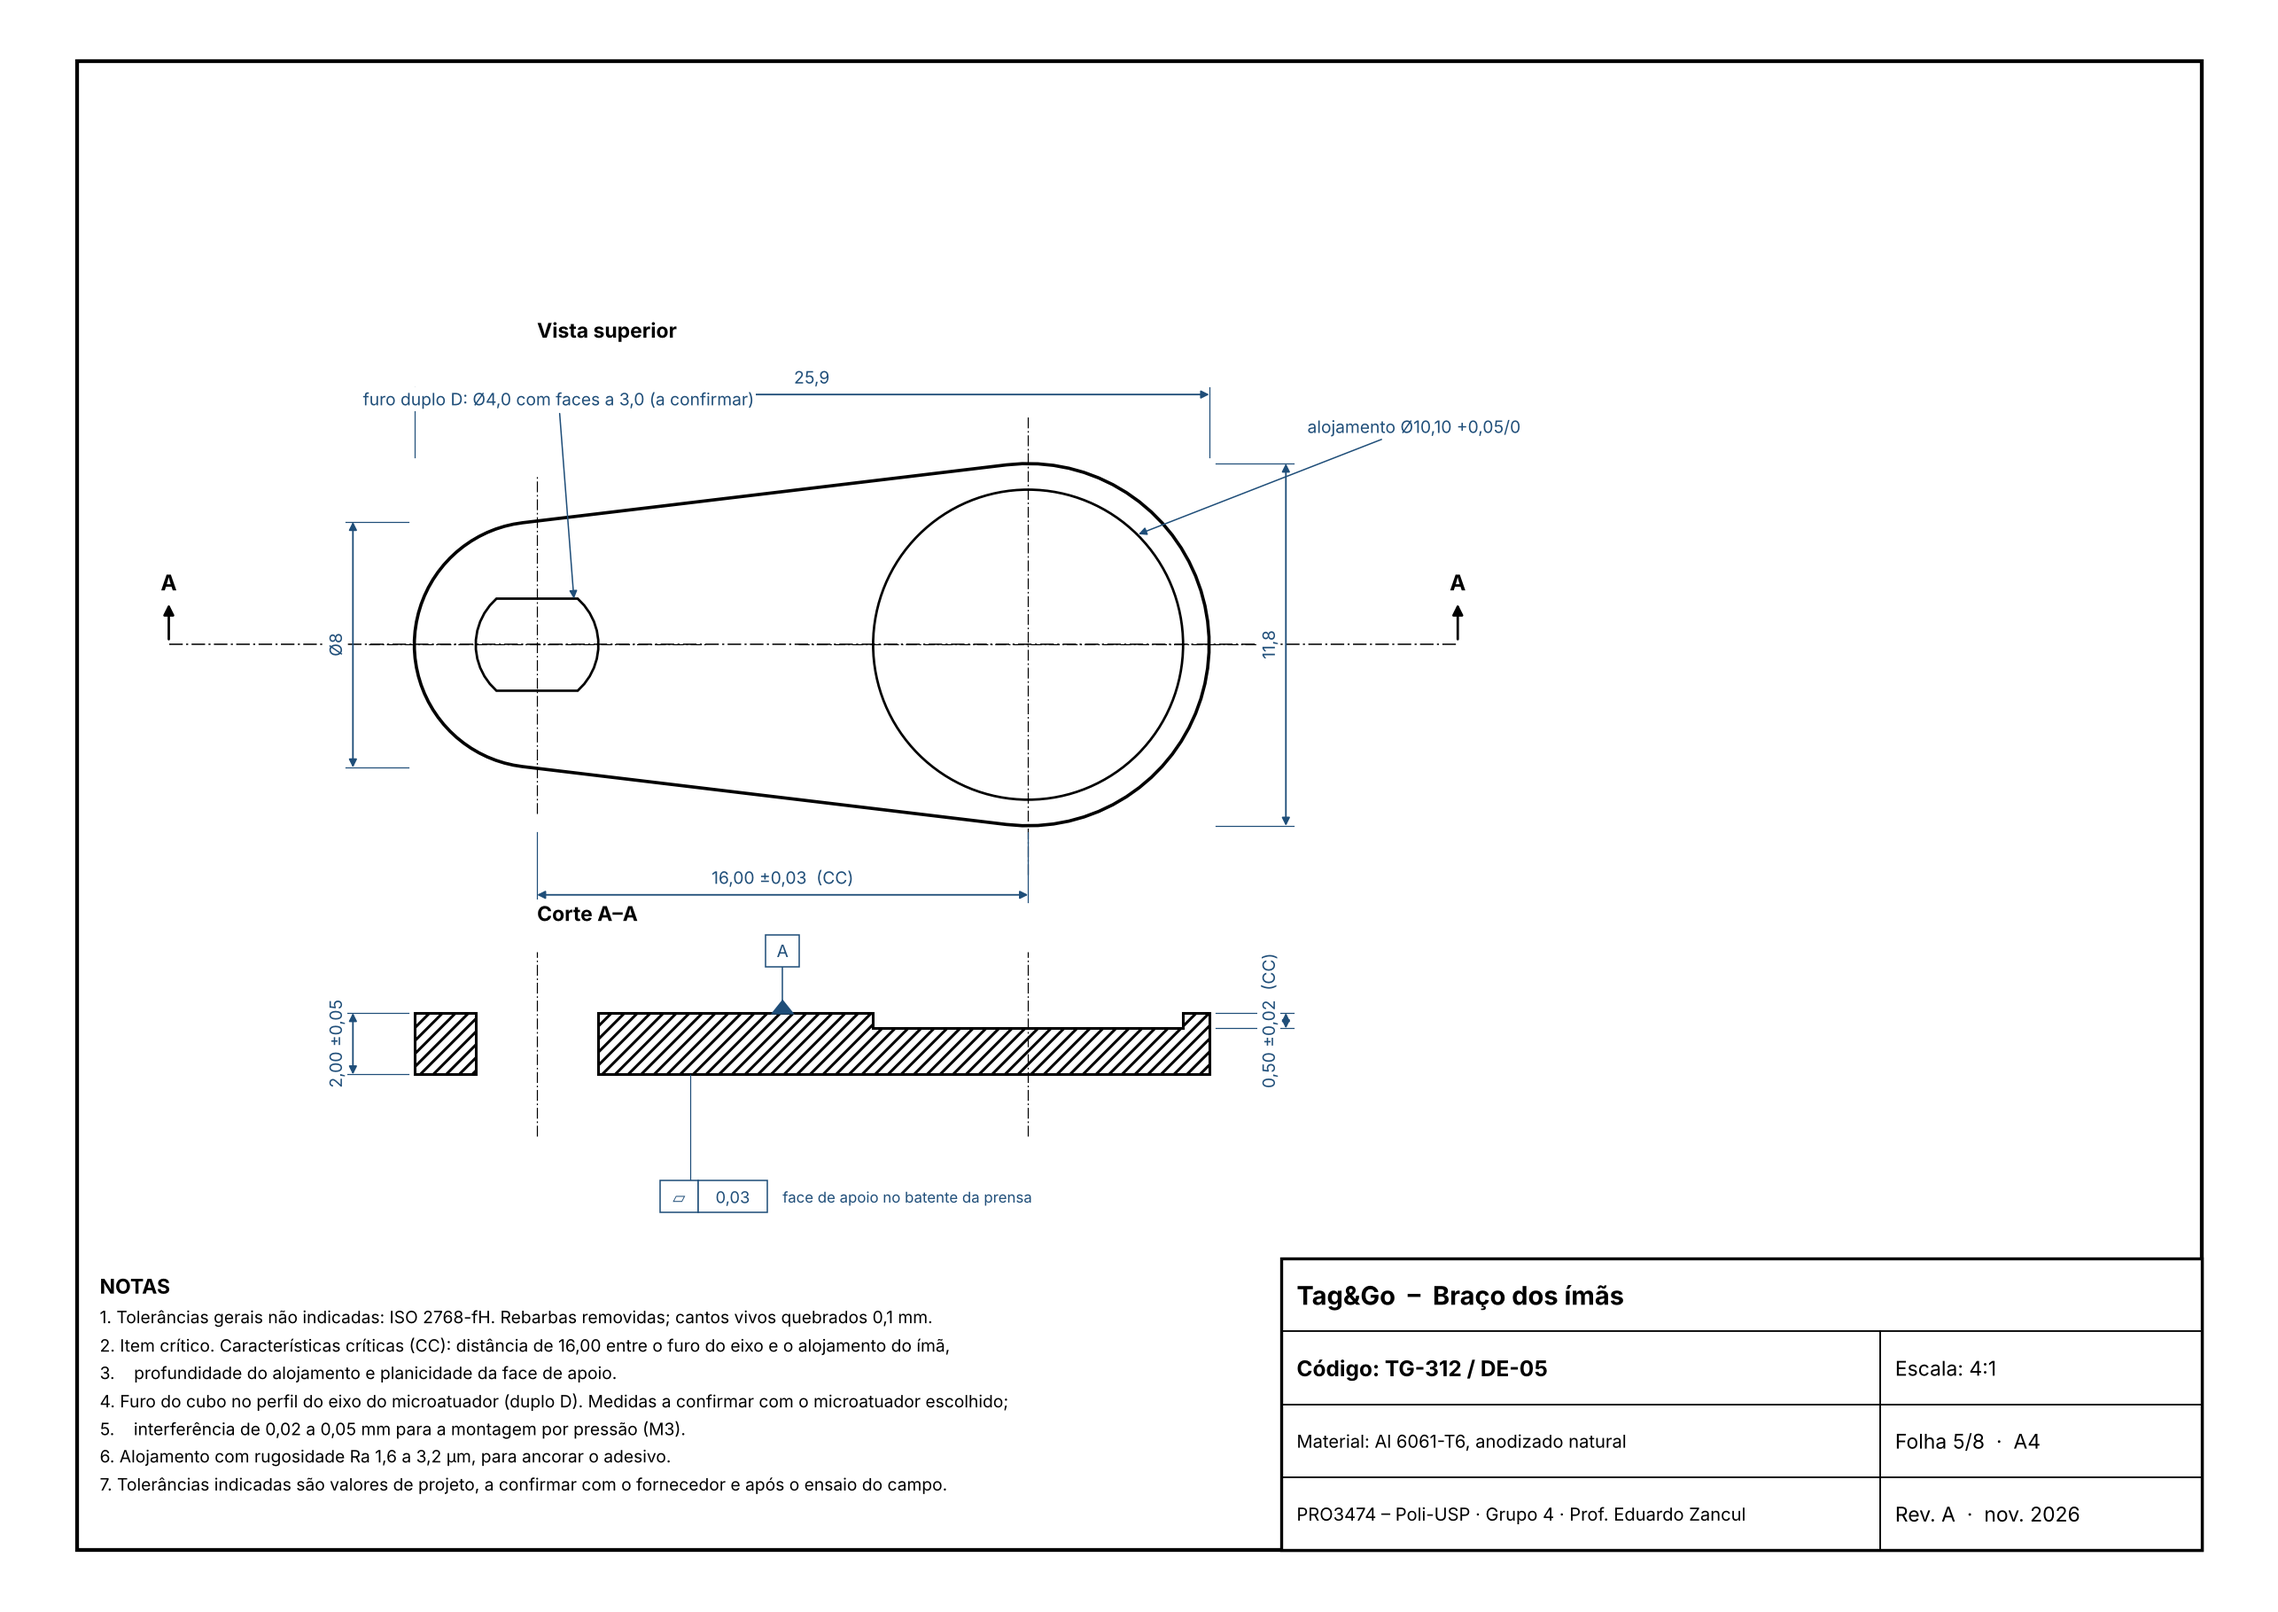
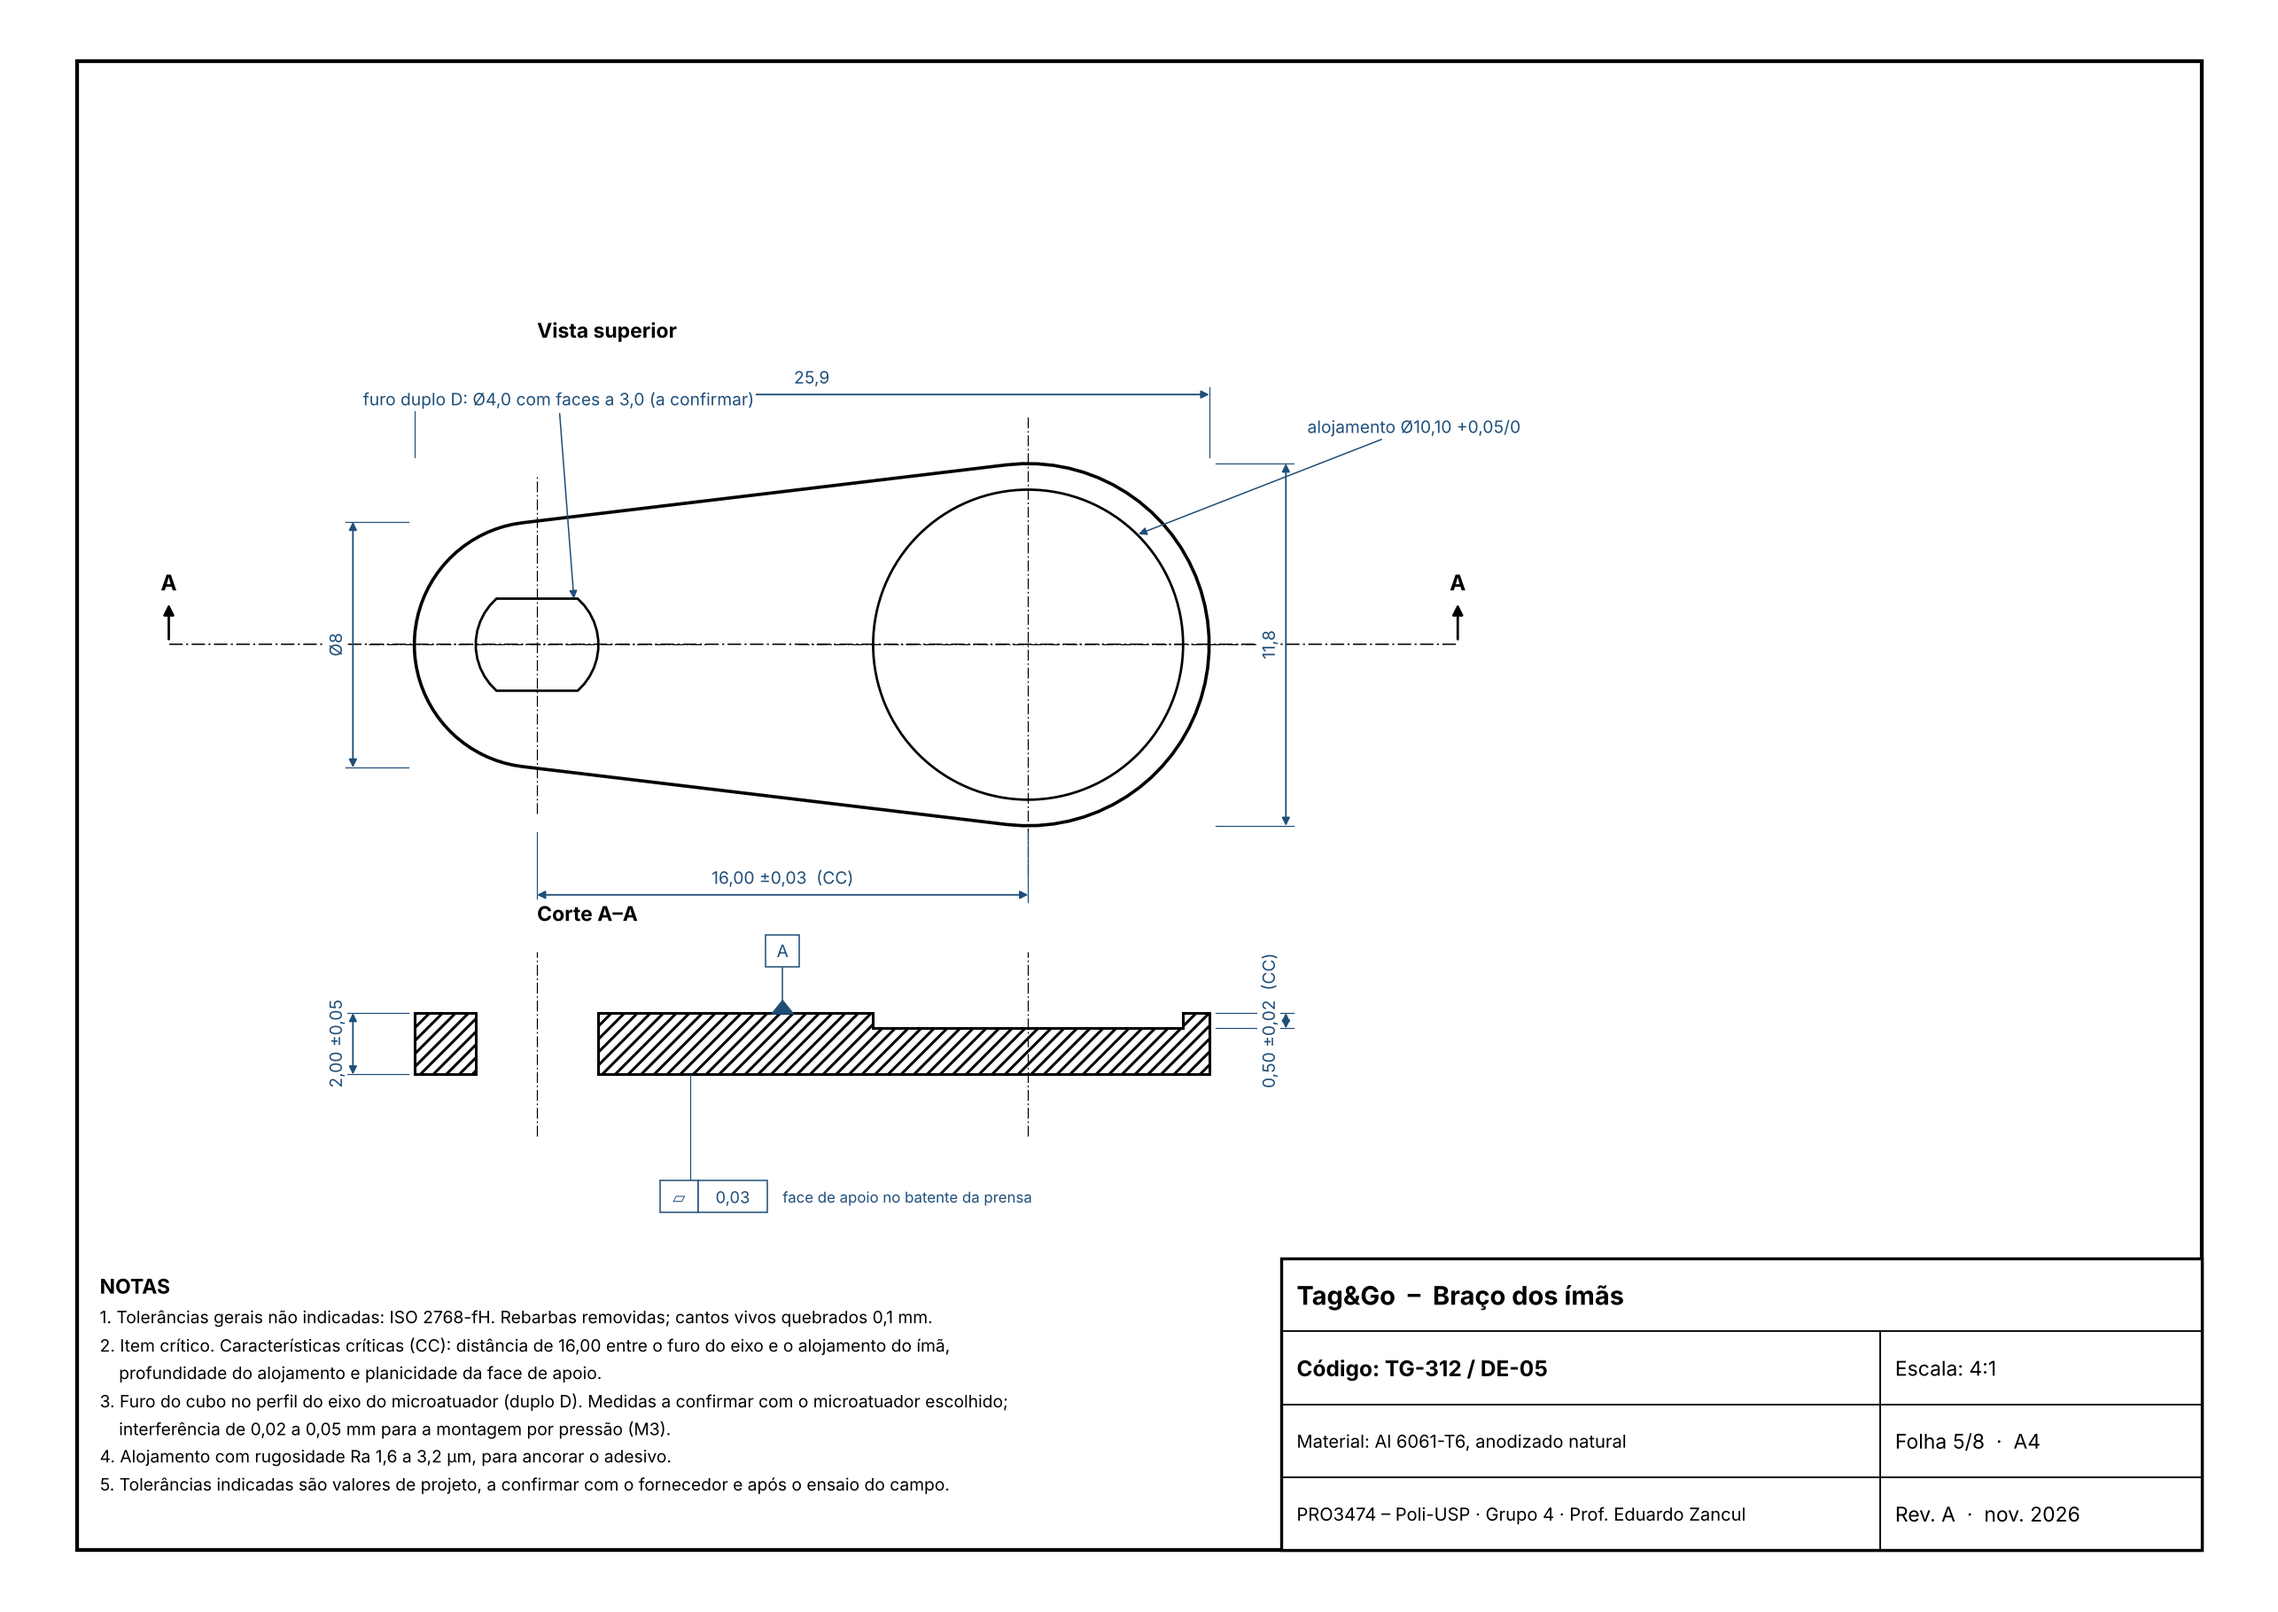
R4: notas dos desenhos sem numeração nas linhas de continuação
Claude-Session: https://claude.ai/code/session_01Hg8rnegkTh99EgJazrwuzt

Changed region(s): [[0.0311, 0.8312, 0.4045, 0.9236]]

diff --git a/imagens/desenhos_execucao/gerar_desenhos.py b/imagens/desenhos_execucao/gerar_desenhos.py
@@ -43,7 +43,14 @@ class Folha:
         t(x0 + 80, y0 + 4.7, 'Rev. A  ·  nov. 2026', fontsize=7.5)
         # notas
         ax.text(13, 44, 'NOTAS', fontsize=7.5, fontweight='bold', va='top')
-        ax.text(13, 40, '\n'.join('%d. %s' % (i + 1, s) for i, s in enumerate(notas)), fontsize=6.3, va='top', linespacing=1.35)
+        linhas, n = [], 0
+        for s in notas:                 # linha iniciada por espaço continua a nota anterior, sem número novo
+            if s.startswith(' '):
+                linhas.append('    ' + s.strip())
+            else:
+                n += 1
+                linhas.append('%d. %s' % (n, s))
+        ax.text(13, 40, '\n'.join(linhas), fontsize=6.3, va='top', linespacing=1.35)
 
     def salvar(self):
         self.fig.savefig(os.path.join(AQUI, self.arquivo), dpi=220)
